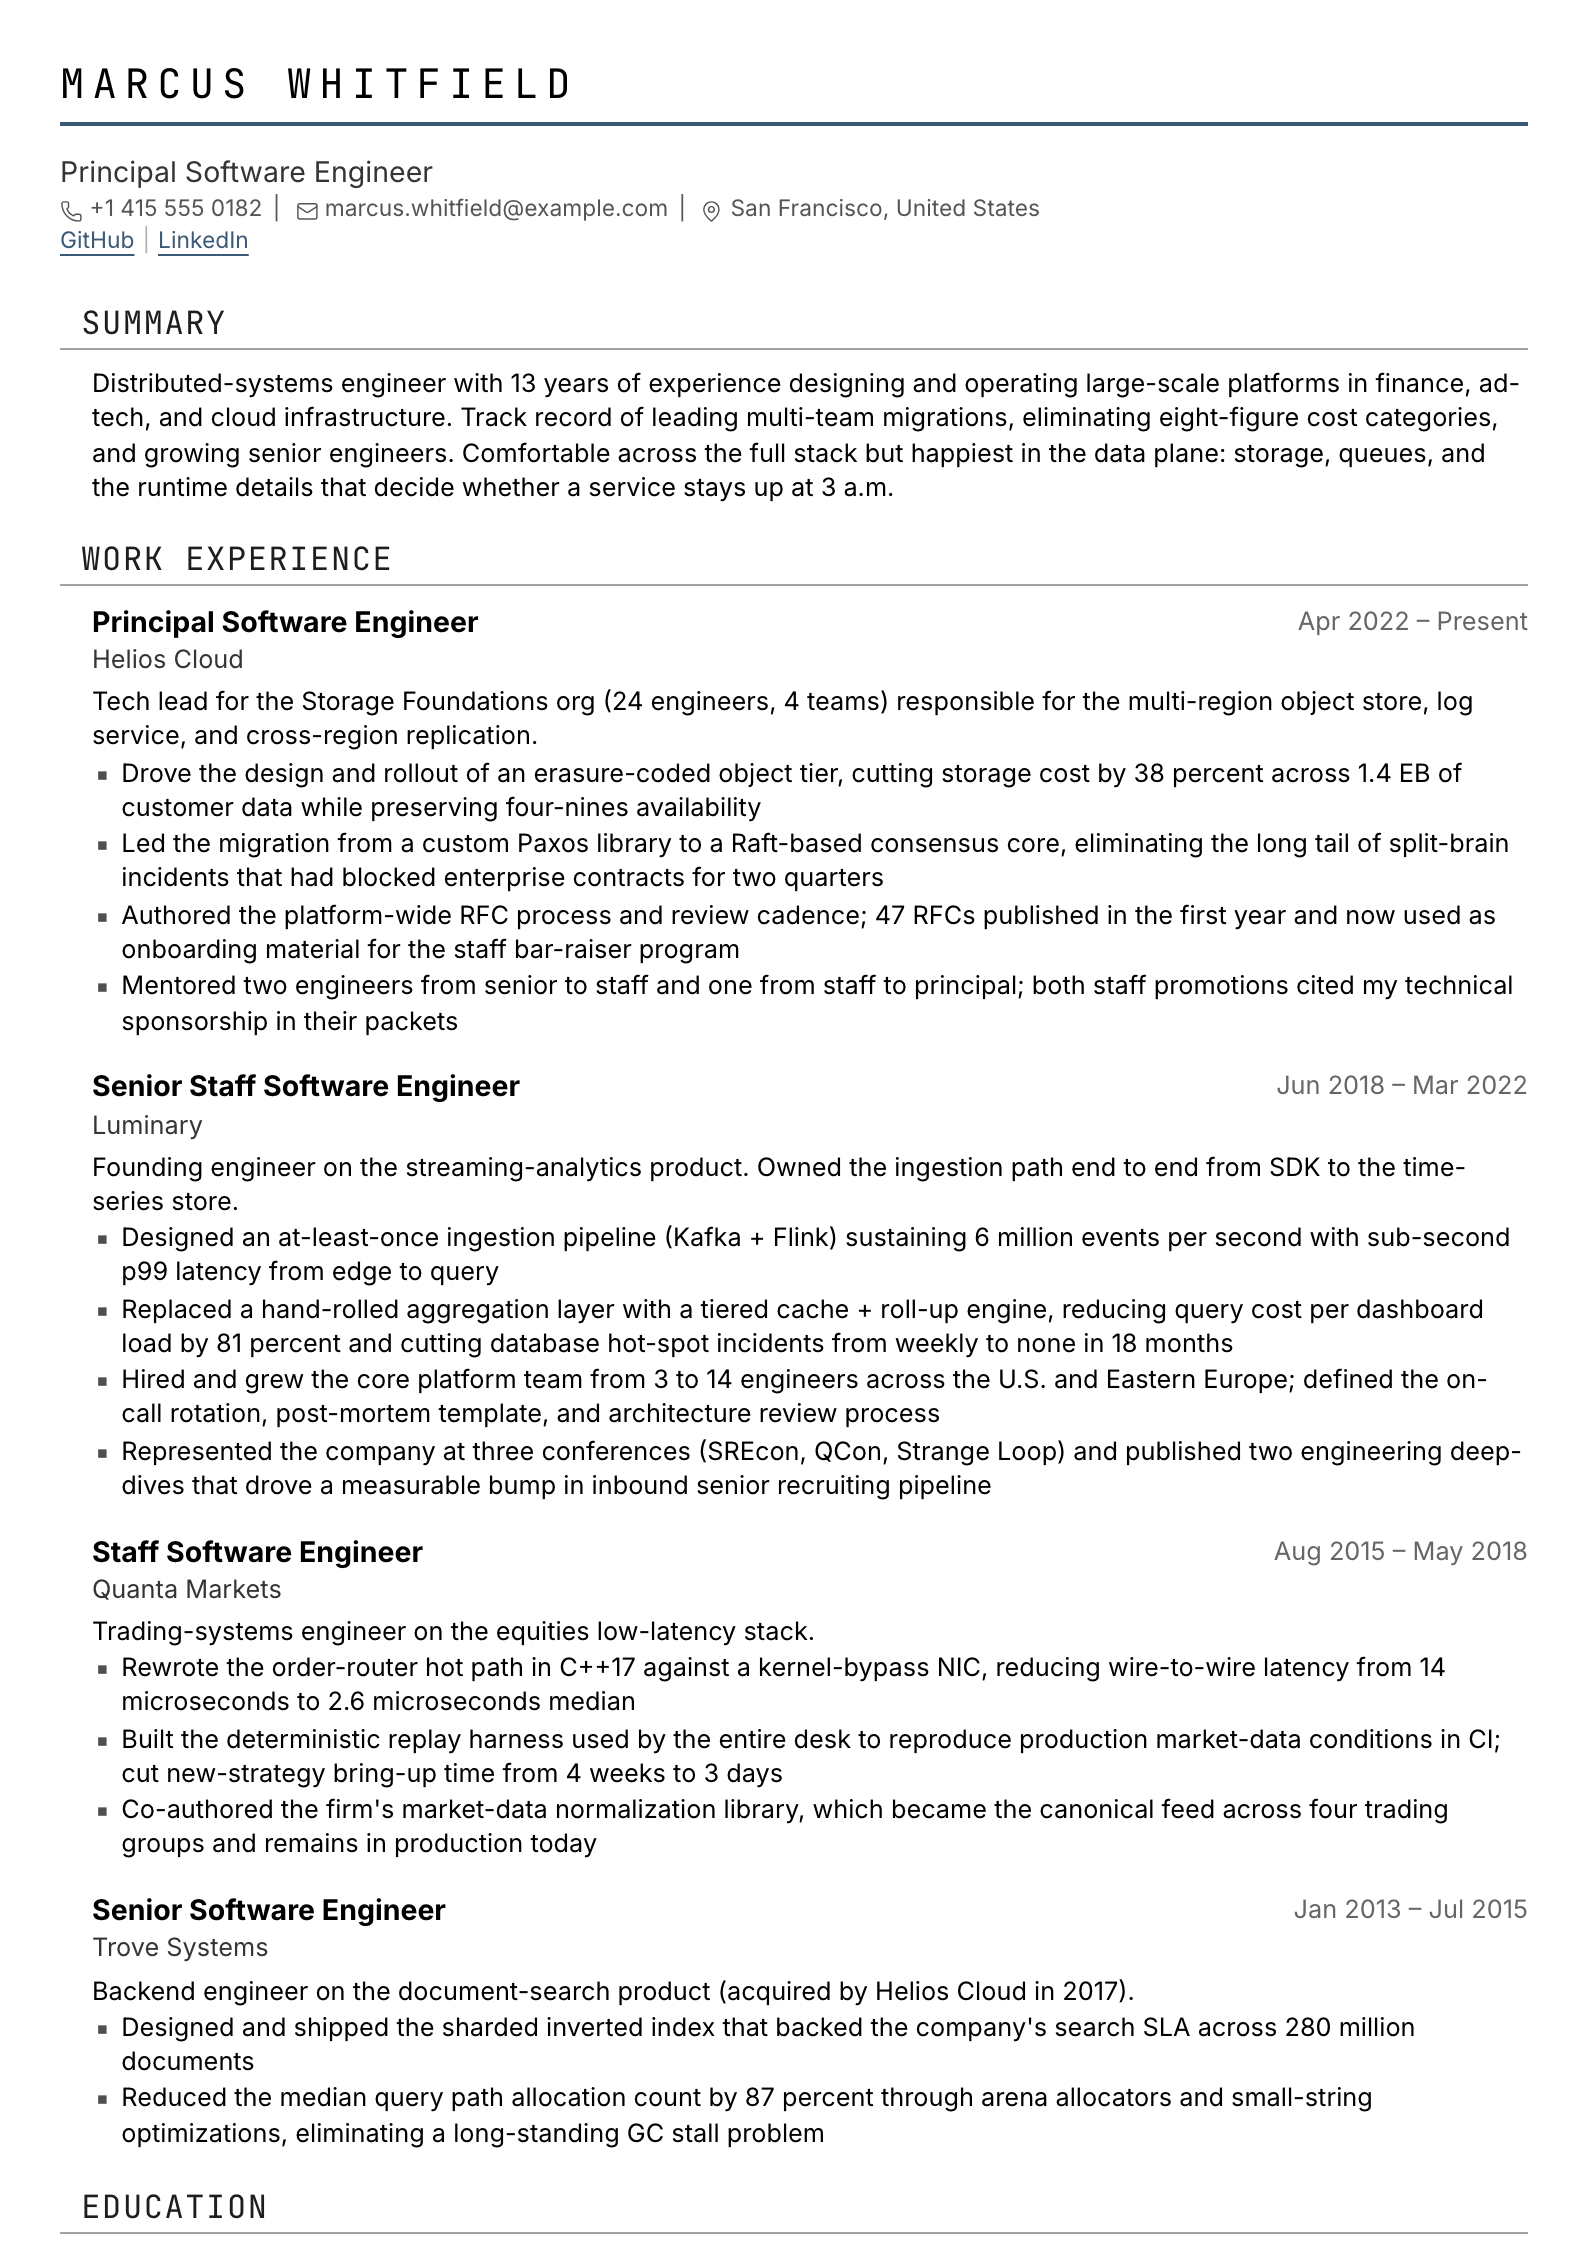
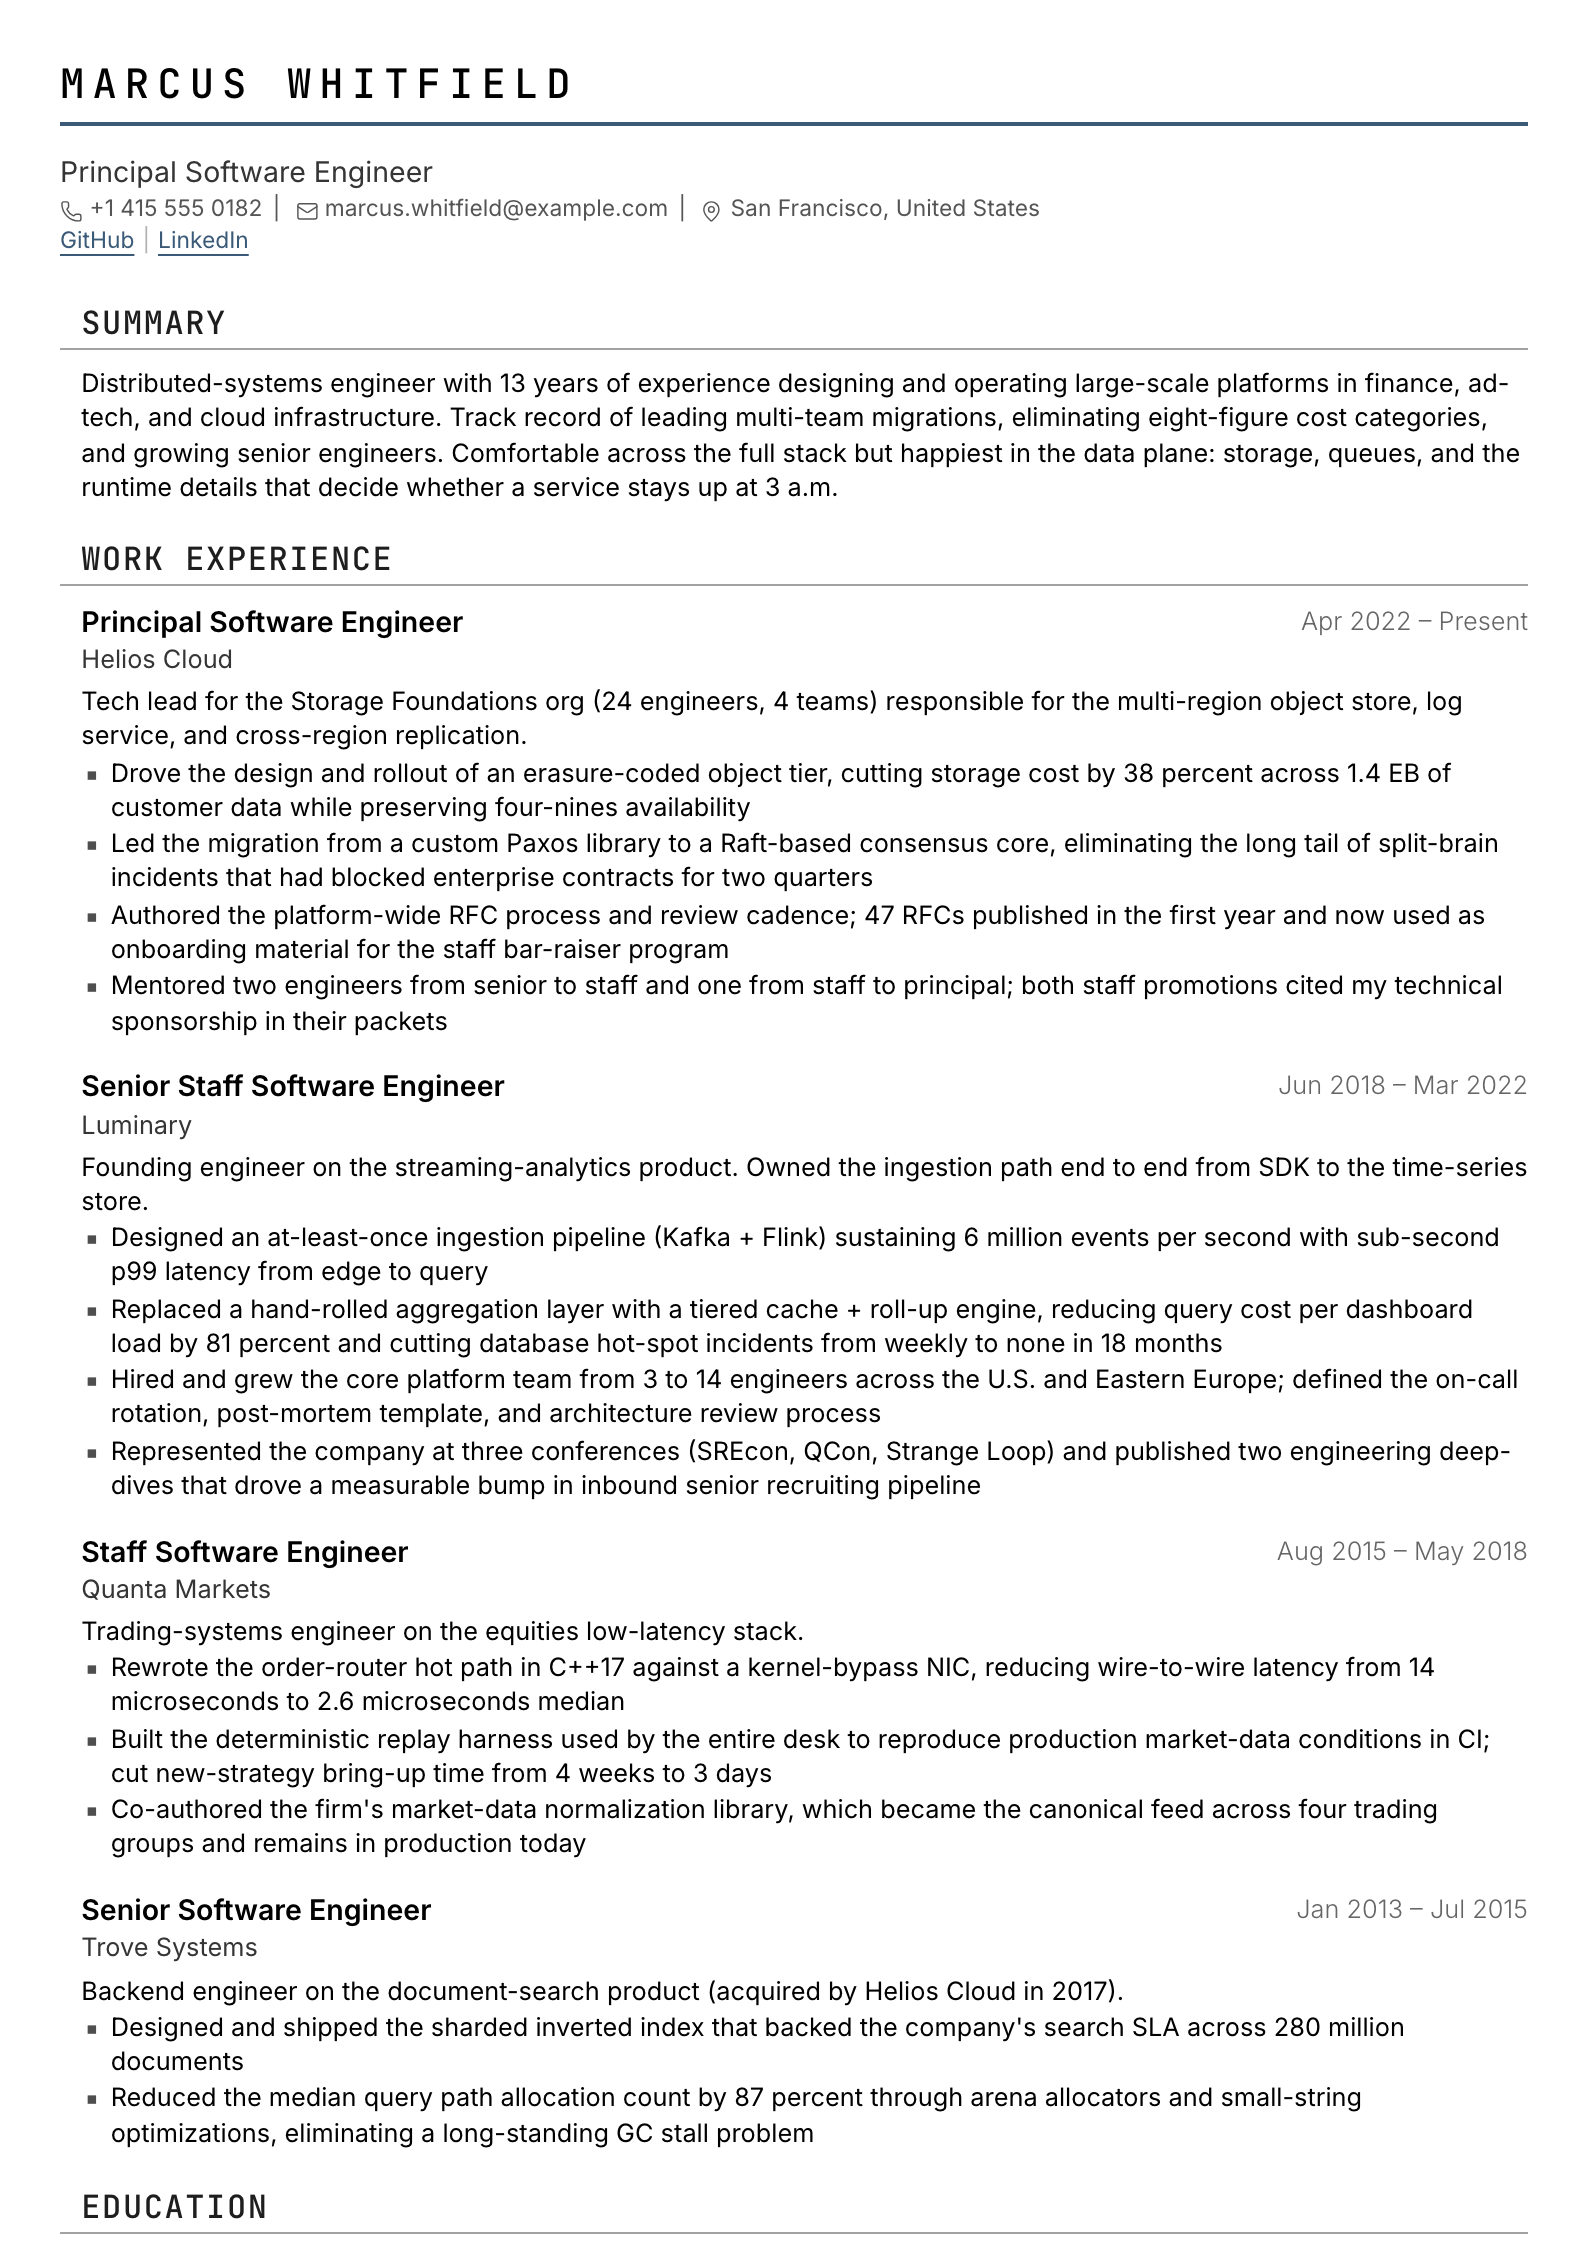
fix(skardu): section content lines up with its heading; summary starts at the margin when its heading is hidden
Skills content was unindented (the indent sat on a paragraph the tags blocks
escape) and other blocks sat a bar's width off the heading text. Bump to 1.0.1.

diff --git a/templates/skardu/template.css b/templates/skardu/template.css
@@ -10,6 +10,18 @@
   color: var(--color-body, #222222);
   padding: var(--margin-top, 30px) var(--margin-right, 30px) var(--margin-bottom, 30px)
     var(--margin-left, 30px);
+
+  /* Where a section heading's text starts: past the left bar (drawn only
+     while the decoration is on and its left side is set) and the heading's
+     own padding. Every block of section content starts here too, so the
+     body lines up with its heading. */
+  --skardu-heading-pad: calc(
+    var(--decoration-padding-left, 0pt) + calc(var(--space-item-gap, 10pt) * 0.2) + 6pt
+  );
+  --skardu-indent: calc(
+    var(--decoration-enabled, 0) * var(--decoration-side-left, 0) * var(--decoration-border-width, 0pt)
+      + var(--skardu-heading-pad)
+  );
 }
 
 /* ── Header ───────────────────────────────────────────────────────── */
@@ -90,7 +102,7 @@
   font-weight: var(--weight-section-heading, 600);
   letter-spacing: var(--tracking-section-heading, 1pt);
   color: var(--color-section-heading, #111111);
-  padding-left: calc(var(--decoration-padding-left, 0) + calc(var(--space-item-gap, 10pt) * 0.2) + 6pt);
+  padding-left: var(--skardu-heading-pad);
   padding-top: calc(var(--decoration-padding-top, 0) + 1pt);
   padding-bottom: calc(var(--decoration-padding-bottom, 0) + 1pt);
 }
@@ -99,15 +111,27 @@
   margin-top: 0;
 }
 
+/* The padding sits on the content block rather than on its paragraphs: the
+   tags partial lays skill groups out as blocks, which a paragraph cannot hold,
+   so a paragraph-level indent never reached them. */
+.resume[data-template="skardu"] .tk-section-content {
+  padding-left: var(--skardu-indent);
+}
+
 .resume[data-template="skardu"] .tk-section-content p {
   font-size: var(--size-body);
-  padding-left: calc(calc(var(--space-item-gap, 10pt) * 0.2) + 10pt);
+}
+
+/* With its heading hidden the summary has no bar to line up with, so it
+   starts at the page margin like the header above it. */
+.resume[data-template="skardu"] .tk-header + .tk-section-content[data-section-type="summary"] {
+  padding-left: 0;
 }
 
 /* ── History items — left-border timeline ─────────────────────────── */
 
 .resume[data-template="skardu"] .tk-history-item {
-  padding-left: calc(calc(var(--space-item-gap, 10pt) * 0.2) + 10pt);
+  padding-left: var(--skardu-indent);
 }
 
 .resume[data-template="skardu"] .tk-item-content-gap {
@@ -117,7 +141,7 @@
 .resume[data-template="skardu"] .tk-item-body {
   display: flex;
   flex-direction: column;
-  padding-left: calc(calc(var(--space-item-gap, 10pt) * 0.2) + 10pt);
+  padding-left: var(--skardu-indent);
 }
 
 .resume[data-template="skardu"] .tk-item-header {
